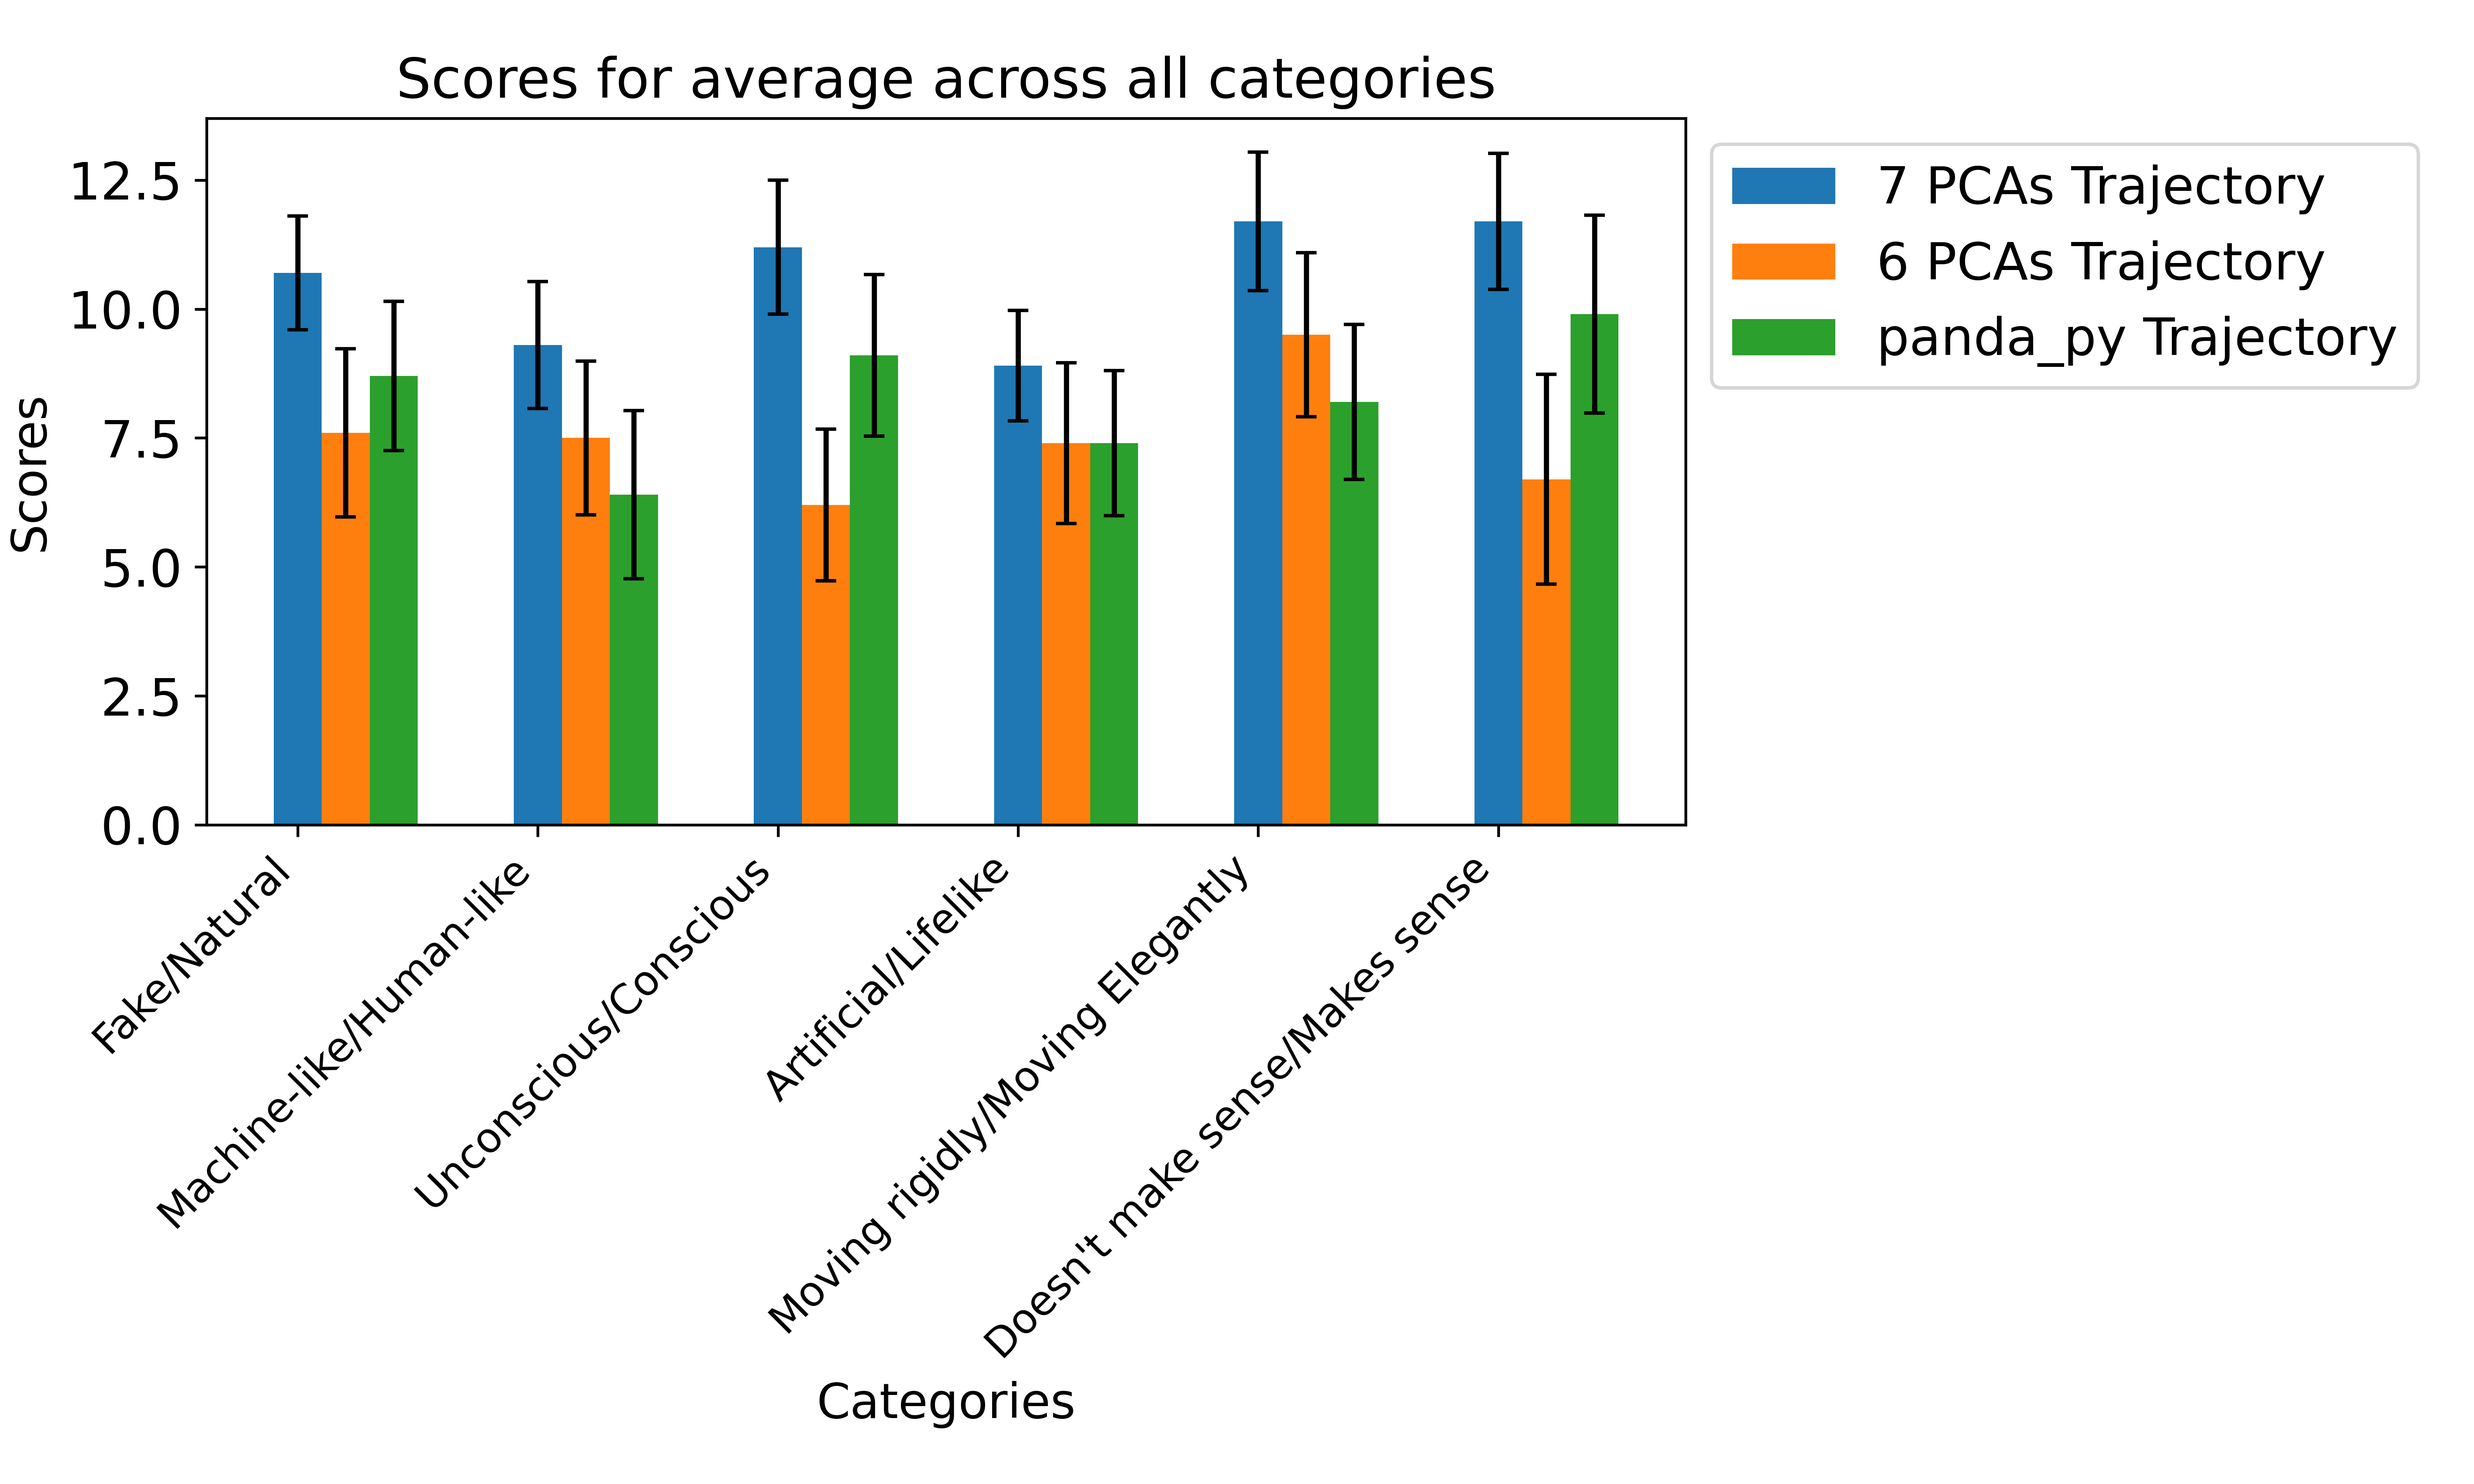
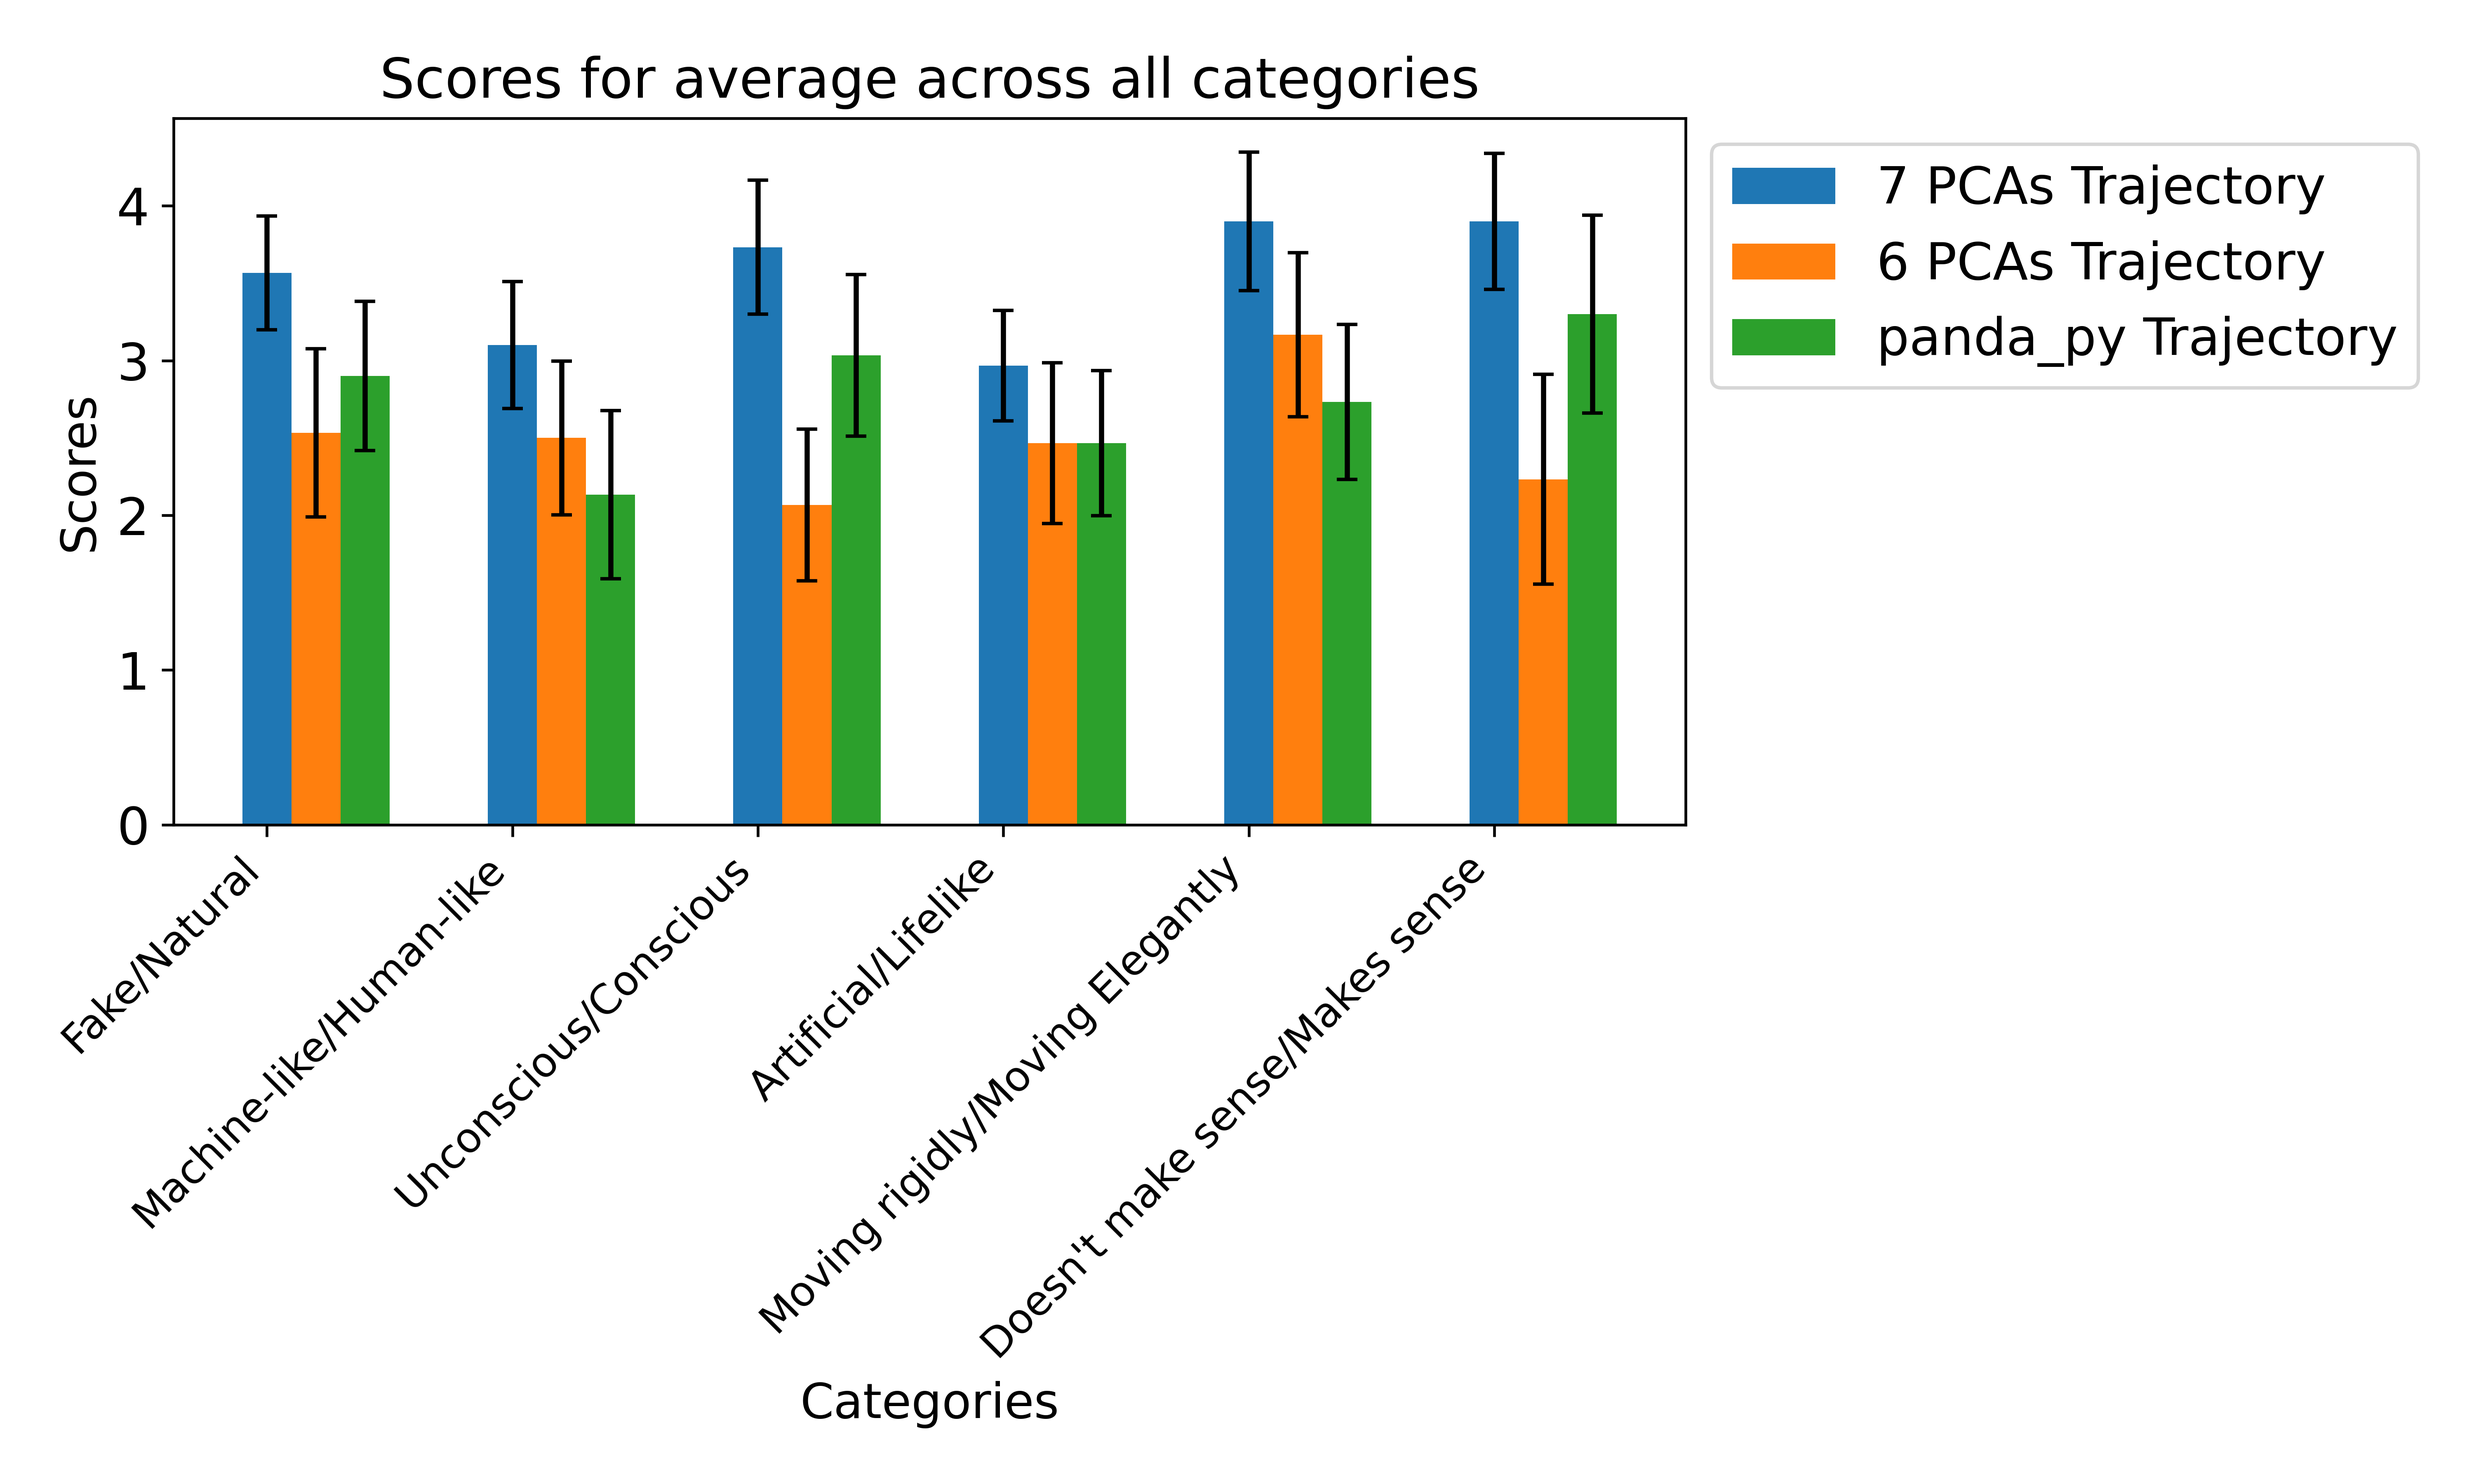
average corrected

diff --git a/questionnaire/generate_plots.py b/questionnaire/generate_plots.py
@@ -97,18 +97,18 @@ for i, (method_idx1, method_idx2, method_idx3) in enumerate(method_groups):
     # Display the plot
     plt.show()
 
-# Group data by summing the specified methods
+# Correctly calculate the average of grouped data
 grouped_data = np.array([
-    np.sum(data[[0, 3, 6], :], axis=0),  # Sum of 1.1, 2.1, 3.1
-    np.sum(data[[1, 4, 7], :], axis=0),  # Sum of 1.2, 2.2, 3.2
-    np.sum(data[[2, 5, 8], :], axis=0),  # Sum of 1.3, 2.3, 3.3
+    np.mean(data[[0, 3, 6], :], axis=0),  # Average of 1.1, 2.1, 3.1
+    np.mean(data[[1, 4, 7], :], axis=0),  # Average of 1.2, 2.2, 3.2
+    np.mean(data[[2, 5, 8], :], axis=0),  # Average of 1.3, 2.3, 3.3
 ])
 
-# Sum errors in quadrature for each grouped method
+# Errors are averaged quadratically
 grouped_errors = np.array([
-    np.sqrt(np.sum(errors[[0, 3, 6], :] ** 2, axis=0)),  # Errors for 1.1, 2.1, 3.1
-    np.sqrt(np.sum(errors[[1, 4, 7], :] ** 2, axis=0)),  # Errors for 1.2, 2.2, 3.2
-    np.sqrt(np.sum(errors[[2, 5, 8], :] ** 2, axis=0)),  # Errors for 1.3, 2.3, 3.3
+    np.sqrt(np.sum(errors[[0, 3, 6], :] ** 2, axis=0)) / len([0, 3, 6]),  # Quadratic avg for 1.1, 2.1, 3.1
+    np.sqrt(np.sum(errors[[1, 4, 7], :] ** 2, axis=0)) / len([1, 4, 7]),  # Quadratic avg for 1.2, 2.2, 3.2
+    np.sqrt(np.sum(errors[[2, 5, 8], :] ** 2, axis=0)) / len([2, 5, 8]),  # Quadratic avg for 1.3, 2.3, 3.3
 ])
 methods_all = ["7 PCAs Trajectory", "6 PCAs Trajectory", "panda_py Trajectory"]
 
@@ -138,23 +138,3 @@ plt.tight_layout()
 plt.savefig(f"questionnaire/averaged_comparison.png")
 plt.show()
 
-
-
-# # Generate tables for each experiment
-# markdown_files = []
-# for i, (method_idx1, method_idx2, method_idx3) in enumerate(method_groups):
-#     selected_methods = [methods[method_idx1], methods[method_idx2], methods[method_idx3]]
-#     selected_data = data[[method_idx1, method_idx2, method_idx3], :]
-#     selected_errors = errors[[method_idx1, method_idx2, method_idx3], :]
-    
-#     # Create markdown content for the table
-#     markdown_content = create_markdown_table(categories, selected_methods, selected_data, selected_errors, i)
-    
-#     # Save to a markdown file
-#     file_path = os.path.join(output_dir, f"experiment_{i + 1}_table.md")
-#     with open(file_path, "w") as file:
-#         file.write(markdown_content)
-    
-#     markdown_files.append(file_path)
-
-# markdown_files

diff --git a/questionnaire/tables/avg_experiment_table.md b/questionnaire/tables/avg_experiment_table.md
@@ -1,9 +1,9 @@
 ### Table for Averages of Experiments
 | **Category**            | **7 PCAs Trajectory** | **6 PCAs Trajectory** | **panda_py Trajectory** |
 |--------------------------| ----------------------------- | ----------------------------- | ----------------------------- |
-| Fake/Natural | 10.70 &pm; 1.10 | 7.60 &pm; 1.63 | 8.70 &pm; 1.45 |
-| Machine-like/Human-like | 9.30 &pm; 1.23 | 7.50 &pm; 1.49 | 6.40 &pm; 1.63 |
-| Unconscious/Conscious | 11.20 &pm; 1.30 | 6.20 &pm; 1.47 | 9.10 &pm; 1.57 |
-| Artificial/Lifelike | 8.90 &pm; 1.07 | 7.40 &pm; 1.56 | 7.40 &pm; 1.41 |
-| Moving rigidly/Moving Elegantly | 11.70 &pm; 1.35 | 9.50 &pm; 1.59 | 8.20 &pm; 1.50 |
-| Doesn't make sense/Makes sense | 11.70 &pm; 1.32 | 6.70 &pm; 2.03 | 9.90 &pm; 1.92 |
+| Fake/Natural | 3.57 &pm; 0.37 | 2.53 &pm; 0.54 | 2.90 &pm; 0.48 |
+| Machine-like/Human-like | 3.10 &pm; 0.41 | 2.50 &pm; 0.50 | 2.13 &pm; 0.54 |
+| Unconscious/Conscious | 3.73 &pm; 0.43 | 2.07 &pm; 0.49 | 3.03 &pm; 0.52 |
+| Artificial/Lifelike | 2.97 &pm; 0.36 | 2.47 &pm; 0.52 | 2.47 &pm; 0.47 |
+| Moving rigidly/Moving Elegantly | 3.90 &pm; 0.45 | 3.17 &pm; 0.53 | 2.73 &pm; 0.50 |
+| Doesn't make sense/Makes sense | 3.90 &pm; 0.44 | 2.23 &pm; 0.68 | 3.30 &pm; 0.64 |
